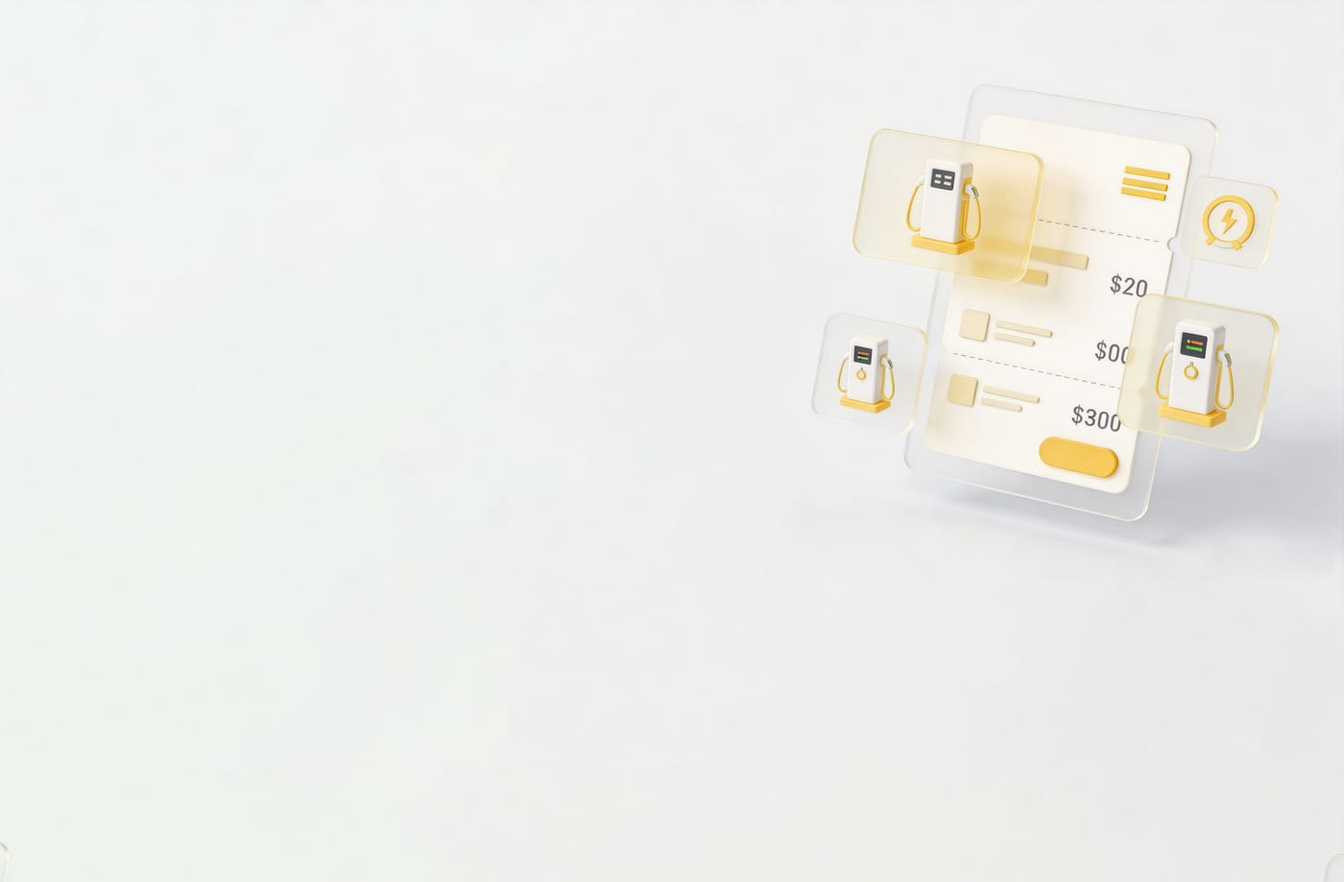
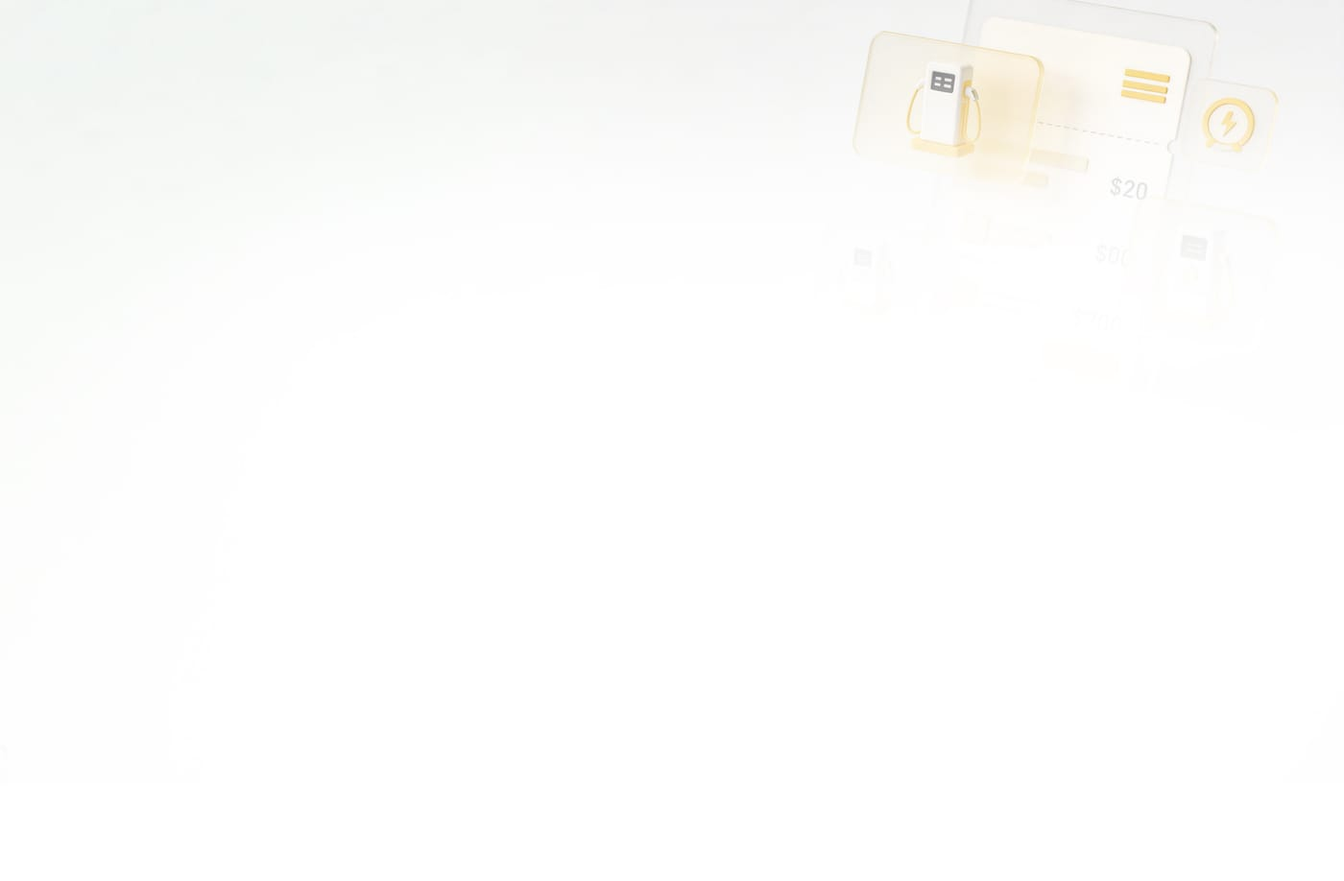
chore(model-card): swap B2C card bg to lighter composition
New source paste with mockup tucked into upper-right corner only
and much more empty cream space. Same sharp pipeline; file size
24KB -> 9.6KB at same 1400x918 dimensions.

Changed region(s): [[0.5836, 0.061, 1.0, 0.671], [0.9214, 0.7015, 1.0, 0.854], [0.9829, 0.9455, 1.0, 1.0]]

diff --git a/CLAUDE.md b/CLAUDE.md
@@ -49,4 +49,4 @@ Backend: `node deploy/deploy-backend.js` cross-compiles Go + SFTP + systemd rest
 
 ## Last session
 
-- 2026-05-12 (homepage hero-footer icon set replaced with external multi-color SVGs + new icon asset directory + business-models card idle shadow removed + hover gold border/ring removed on model-card + B2C card gets product-shot bg image): (1) Created a dedicated icon asset directory at `website/frontend/public/assets/icons/` with a `hero-stats/` subfolder. Project previously had no icons directory — `public/assets/` only held `logo.png`, all UI icons were inlined as `<svg>` in JSX, and the only standalone SVG in `public/` was the large `images/b2c_bg.svg` background. New convention: `public/assets/icons/<scene>/<name>.svg` (e.g. `assets/icons/hero-stats/downloads.svg`); add more `assets/icons/<scene>/` subdirs (nav, features, etc.) when new icons land. (2) Dropped three new SVGs into `public/assets/icons/hero-stats/`: `downloads.svg` (gold tray + black down arrow — 下载量), `chargers.svg` (gold bars + black lightning — 充电桩数量), `countries.svg` (gold globe + black meridians — 覆盖国家). All three are multi-color (gold `rgba(254,191,29,1)` ≈ `--primary` + black strokes), `viewBox="0 0 24 24"`, source files were 24×24 with intrinsic colors hard-coded — NOT using `currentColor`, so theme/CSS color changes do not affect them. (3) `src/app/[locale]/page.tsx` lines 98-119: replaced the three inline `<svg>` blocks (download tray, lightning bolt, globe — all simple single-path `currentColor` icons) with `<Image src="/assets/icons/hero-stats/{downloads,chargers,countries}.svg" alt="" width={16} height={16} />`. `Image` was already imported at line 2 and `next.config.ts` has `images.unoptimized: true` so static export works. Removed `style={{ color: 'var(--primary)' }}` from each wrapping `.hero-footer-icon` span — useless now that the SVGs no longer use `currentColor`. The span wrapper itself is kept since `.hero-footer-stat` flex alignment + the animation/transition hooks live on it. (4) `src/app/styles/sections.css` cleanup of rules tuned for the old single-color SVGs: (a) removed the entire light-mode override block at ~lines 1658-1664 (`html:not([data-theme="dark"]) .hero .hero-footer-icon { color: var(--text-primary) !important; filter: none; }` + the matching hover rule); the divider override below it is preserved. (b) stripped `color: var(--primary) !important` and `filter: drop-shadow(0 0 4px rgba(254, 191, 29, 0.4))` from the base `.hero-footer-icon` rule, and removed the entire `.hero-footer-stat:hover .hero-footer-icon { filter: drop-shadow(0 0 8px rgba(254, 191, 29, 0.6)) }` hover rule. The base rule is now just `display: flex; align-items: center;`. (5) Scope: ONLY the homepage was updated. `src/app/[locale]/b2c/page.tsx:129-145` has the same three inline SVGs with the same structure but was intentionally left as-is per user — "只换首页". If/when b2c is replaced, the same three files in `assets/icons/hero-stats/` can be reused; the `.hero-footer-icon` CSS strip already applies globally so b2c's gold glow is also gone (b2c may now look identical to home minus the icons — no user complaint yet but worth noting). NOTE TO FUTURE CLAUDE: the hover lift `transform: translateY(-2px)` on `.hero-footer-stat:hover` is preserved as the only hover feedback now; if user wants a subtle hover effect back, prefer adding it on the stat (scale/translate) rather than re-introducing a `drop-shadow` on the icon — the multi-color SVGs already carry the gold accent and a gold glow would muddy the black strokes. The `HeroVideo.tsx` component file noted in prior sessions is still unused-but-present (untouched). (6) Removed the idle drop-shadow on `.model-card` (homepage "灵活的运营模式，适配各种规模" section / `#models` — two cards: 独立运营商模式 B2C and SaaS 平台版运营模式 B2B2C, rendered by `src/components/sections/home/BusinessModelsSection.tsx`). `sections.css:2213` `box-shadow: 0 2px 10px rgba(0, 0, 0, 0.06)` → `box-shadow: none`. Note there are TWO competing idle box-shadow declarations for `.model-card`: the earlier merged rule at `sections.css:2024` (`.card, .model-card, .glass-card`) sets `var(--shadow-sm), inset 0 1px 0 rgba(255, 255, 255, 0.08)`, and the "Business Models Section" block at line 2206 is more-specific-by-cascade (same specificity but later in the file) so it wins — that's the one whose value the user is seeing. Setting it to `none` cleanly cancels the visible shadow without needing `!important` or restructuring the earlier rule. Hover rule at `sections.css:2217-2221` is intentionally left untouched — hover still lifts (`transform: translateY(-4px)`), tints the border gold (`rgba(254, 191, 29, 0.3)`), and re-introduces a shadow (`0 8px 24px rgba(0, 0, 0, 0.1)`); the user only asked for static/idle shadow removal. Caveat: there are ALSO `.model-card:hover` rules in `polish.css:144-152` (`0 22px 48px rgba(0,0,0,0.1), 0 0 0 1px rgba(254,191,29,0.22), 0 0 36px rgba(254,191,29,0.14)`) and `sections.css:2037-2045` (`var(--shadow-md), inset 0 1px 0 rgba(255,255,255,0.12), 0 0 30px rgba(254,191,29,0.06)`) — which one ultimately wins for hover depends on stylesheet import order; observed hover in dev would tell you. None of those were touched. Apply to both light + dark mode (no theme-scoped override). (7) Removed the gold/yellow border treatment from `.model-card:hover` on the same business-models cards. Two coordinated edits because the gold border was being applied by the LAST-loaded stylesheet (`polish.css`) winning the cascade: (a) `polish.css:144` — pulled `.model-card:hover` out of the multi-selector `.card:hover, .glass-card:hover, .model-card:hover, .feature-card:hover` so polish.css no longer applies its hover treatment to model-card (the gold treatment in that rule is `border-color: rgba(254, 191, 29, 0.3)` PLUS a `0 0 0 1px rgba(254, 191, 29, 0.22)` 1px gold ring as part of the box-shadow stack PLUS a `0 0 36px rgba(254, 191, 29, 0.14)` gold glow halo — all three were going to model-card). `.card:hover, .glass-card:hover, .feature-card:hover` keep the gold ring/glow/border — only model-card is opted out. (b) `sections.css:2218` — `.model-card:hover` `border-color: rgba(254, 191, 29, 0.3)` → `border-color: var(--border-subtle)` (matches idle from line 2208, so border doesn't change color on hover). Preserved on hover: `transform: translateY(-4px)` lift and `box-shadow: 0 8px 24px rgba(0, 0, 0, 0.1)` neutral dark shadow from `sections.css:2219-2220` (now the sole hover rule for model-card since polish.css opted out); also preserved `.model-card:hover .model-icon { transform: scale(1.06) rotate(-2deg) }` from `polish.css:156` — that's the icon scale, not a gold border, user didn't complain. Note: there is still a `.card:hover, .model-card:hover, .glass-card:hover` block at `sections.css:2037-2045` with `border-color: rgba(254, 191, 29, 0.15)` + gold-tinted glow, BUT `sections.css:2217` is later in the same file at same specificity, so 2217 wins for `.model-card:hover` — the 2037 rule is now effectively dormant for model-card without needing to be touched. Stylesheet load order for the curious: `globals.css` imports in this order — `base.css` → `sections.css` → `pages-extracted.css` → `polish.css` (last one wins at same specificity). Apply to both light + dark mode (no theme-scoped override). (8) Replaced the cream-solid background on the LEFT business-models card (B2C — 独立运营商模式 (B2C)) with a product-shot image (charging-pillar + phone UI mockup on cream backdrop). New asset: `website/frontend/public/images/business-models/b2c-bg.jpg` — sourced from a 4650×3051 / 6.95MB PNG paste, resized + recompressed to **1400×919 / 24KB** via `sharp` (`fit: 'inside'`, `withoutEnlargement: true`, JPEG quality 80, mozjpeg, progressive) — 290× size reduction so the card bg doesn't tank LCP. Created the new directory `public/images/business-models/` for future model-card assets (matches existing per-feature subdir pattern like `images/payment/`, `images/mobileapp/`). TSX: `src/components/sections/home/BusinessModelsSection.tsx` — added `model-card-b2c` modifier class to the first `.model-card` (line 23 area). Second card (`SaaS 平台版运营模式 (B2B2C)`) is untouched per "红框卡片" scope. CSS: appended a new rule right after the `.model-card` block in `sections.css` (~line 2216): `#models .model-card.model-card-b2c { background-image: url('/images/business-models/b2c-bg.jpg'); background-size: cover; background-position: center; background-repeat: no-repeat; }`. Specificity choice — `#models` ID + 2 classes = (1,2,0), needed to win against the dark-mode override at `pages-extracted.css:2176` (`[data-theme="dark"] .model-card { background: rgba(39,35,32,0.8) ... }` = (0,2,0)) AND against polish.css's later-loaded rules. The image is applied via `background-image` only (NOT the shorthand `background:`) so it doesn't reset `background-color` — the underlying `.model-card { background: var(--dark-card) }` color stays as fallback, visible during image load or behind any transparent pixels. `cover` + `center` keeps the image filling the card with no distortion (the source's mockup sits roughly at horizontal 70-95%, source aspect 1.52:1 vs card aspect ≈ 1.5:1, so cropping is minimal); centered card content (icon + h3 + p + button) sits primarily over the cream empty space on the left ~60% of the image. Applies in BOTH light and dark mode (no theme-scoped override) — image is decorative and the cream tones read fine over the dark card's `rgba(39,35,32,0.8)` fallback too. NOTE TO FUTURE CLAUDE: if user reports the mockup overlaps centered text awkwardly, try `background-position: right center` (pushes mockup flush to right edge, text sits over more cream) — `left center` would hide the mockup entirely since the source's interesting content is on the right. The `next.config.ts` `images.unoptimized: true` is unchanged — this image is loaded via CSS `url()` not `<Image>` so Next image optimization wouldn't apply regardless. Hover shadow + lift from change (7) is also visible behind the new bg. (2) Header background opacity lowered (~95%+) for the proper frosted-glass look (`components.css` `.header`): default unscrolled `rgba(255,255,255,0.85)` → `0.04` with `backdrop-filter: blur(40px) saturate(200%)`; scrolled `0.95` → `0.10` with `blur(28px) saturate(180%)`; dark counterparts `rgba(12,10,9,0.85)/0.95` → `0.04/0.10`. Bottom border switched from `var(--border-subtle)` to faint white (`rgba(255,255,255,0.10)`-ish) so it reads as a glass edge highlight rather than a hard line over the hero video. Scrolled shadow softened from `0.06` → `0.04`. (3) Added a homepage-hero-scoped override `body:has(.hero-with-video) .header` (covers BOTH unscrolled and scrolled states): unscrolled is dark glass at `rgba(0,0,0,0.08)` + `blur(44px) saturate(180%)`; scrolled deepens to `rgba(0,0,0,0.32)` + `blur(32px) saturate(180%)` with a stronger drop shadow `0 4px 18px rgba(0,0,0,0.18)` so the bar stays defined when it travels over white sections after the hero. Non-home pages keep the white-glass variant. (4) In the same `:has(.hero-with-video) .header` scope (no `:not(.scrolled)` — applies in both states), switched nav text/icons to white: `.logo`, `.btn-login`, `.settings-trigger` to `#ffffff`; `.nav a` and `.nav-dropdown-trigger` idle at `rgba(255,255,255,0.82)`; hover/active variants (`.nav a:hover/.active`, `.nav-dropdown-trigger:hover/.active`, `.btn-login:hover`, `.settings-trigger:hover/[aria-expanded="true"]`) to `#ffffff`. The dropdown triggers (`产品`, `社区`) and settings gear are `<button>`s (not `.nav a`) so they need explicit selectors. Settings-trigger border softened to `rgba(255,255,255,0.18)`. SVG chevrons follow `currentColor` automatically. The user explicitly wanted the bar/text to read as white glass throughout home scrolling, not just over the hero — `.scrolled` fires at scrollY>20 so the bar would otherwise flip to dark-on-white before the hero is even out of view. (5) Hero composition reworked from "browser-chrome dashboard card + phone overlapping LEFT edge" to "laptop frame + phone overlapping LOWER-RIGHT corner" (reference: Figma → Webflow promo image). JSX: replaced `.hero-mock-cpo` (with traffic-light bar + `cpo.gcss.hk` URL chip) with `.hero-mock-laptop` containing `.hero-mock-laptop-screen` (thin black bezel hugging the dashboard image) and `.hero-mock-laptop-base` (a 14px wedge 12% wider than the screen via negative margins, gradient `#34302c → #1c1916 → #100e0c`, with a centered hinge notch via `::before`). Phone repositioned from `top:16% left:-10%` → `top:36% right:-10%` (left:auto), width tightened from 36% → 30%. `.hero-mock` width clamp bumped slightly (260-500 → 280-540) to keep the laptop legible at common viewports. Old `.hero-mock-cpo*` selectors deleted. (6) Hero background swapped from the 145MB H.264 video (`/video/Hero-back.mp4`) to a static 2.0MB JPG (`/public/images/hero-bg-charger.jpg`, 3840×2160, light/cream scene with an orange glass charging-pillar render on the right and yellow sky glow at top). page.tsx: dropped the `<HeroVideo>` import and replaced its usage with `<Image fill priority sizes="100vw" className="hero-bg-video" style={{objectFit:'cover',objectPosition:'center'}} />` — `fill` + `object-fit: cover` keeps the image filling the hero without distortion. CSS: `.hero-bg-video` fallback bg switched from `#000` → `#f3eee5` (matches the image background, prevents black flash on slow loads); `.hero-with-video` background-color switched the same way; removed the `@media (prefers-reduced-motion: reduce) { .hero-bg-video { display: none } }` rule (no longer needed for a still). The existing `.hero-bg-video-scrim` (dark-left → transparent-right horizontal gradient + bottom darken) is intentionally kept so the white hero text + white nav still read against the now-lighter image. NOTE TO FUTURE CLAUDE: the white nav text rules from change (4) still apply over this lighter image — the dark-left scrim + dark glass bar keep them readable on the left half, but the right half (where the laptop+phone mock sits) is now bright; if the user reports the nav text is unreadable on the right side, revisit the scrim's right-side opacity or the bar background. The `HeroVideo.tsx` component file is now unused but left in place in case the user wants to swap back. Old `Hero-back.mp4` is still in `/public/video/` (not deleted). (7) Removed the laptop+phone mock (`.hero-mock` div + all children) and the dark scrim overlay (`.hero-bg-video-scrim` div) from the hero JSX so the charger render shows directly without any darkening layer. Grid (`minmax(0,1fr) minmax(0,auto)`) was kept — the empty right column collapses to 0 and the text stays left-aligned, ready for the user to drop something back into the right slot later. CSS for `.hero-mock*` and `.hero-bg-video-scrim` is left in place (unused but harmless) since the user has been iterating on hero composition. WARNING: with the scrim gone, the white hero copy + white nav text from changes (4)–(6) sit directly on the very light cream/white image — readability is poor on the right two-thirds of the bar/text area. If the user reports illegibility, options are to (a) re-introduce a softer scrim (lower-opacity dark gradient on the left only), (b) flip hero text + `body:has(.hero-with-video) .header` overrides back to dark-on-light tokens, or (c) shift the image's `object-position` left so the dark/orange charger sits more behind the text. None done preemptively — user explicitly asked for "直接显示背景图" (show bg directly, no overlay). (8) Header on the home page now flips by scroll state instead of staying dark glass throughout: unscrolled is a SOLID WHITE bar (`background: #ffffff`, no backdrop-filter, `border-bottom: rgba(0,0,0,0.08)`) with default dark nav tokens (`var(--text-secondary)`/`--text-primary`) — readable against the bright charger image; scrolled stays as the dark glass + white text variant from change (4)/(7) for visual continuity once the user starts scrolling. The `body:has(.hero-with-video) .header` overrides were re-scoped: white-glass + white-text rules now use `.header.scrolled` selectors only; the `:not(.scrolled)` block flips to solid white. Per user: "顶部导航栏背景不滚动时，是纯白色的，红框的字体和图标是黑色的". (9) Active nav link styling promoted from `var(--text-primary)` + `font-weight: 600` to `var(--primary)` (gold) + `font-weight: 700` — applies globally to `.nav a.active` and `.nav-dropdown-trigger.active`. The earlier `.scrolled` white-text override on home was forcing `.active` back to white; split the rule so `:hover` stays white on the dark-glass scrolled bar but `.active` keeps the global gold via a follow-up rule. Per user: "红框字体，变成黄色加粗". (10) Removed all black `text-shadow`s from the hero text block (badge, title, description) — they were tuned for the previous dark video bg and read as muddy halos against the new light charger image. Specifically: dropped `0 1px 8px rgba(0,0,0,0.4)` from `.hero-with-video .hero-badge`, `0 1px 2px rgba(0,0,0,0.55), 0 4px 24px rgba(0,0,0,0.5)` from `.hero-with-video .hero-title/.hero-title > span`, and `0 1px 12px rgba(0,0,0,0.55)` from `.hero-with-video .hero-desc`. Kept the gold-tinted `0 2px 18px rgba(254,191,29,0.35)` glow on `.hero-title .typing-text/.text-gradient` (user explicitly said "黑色投影" / black shadows). Footer stat-bar shadows (`.hero-footer-label`, `.hero-footer-value`) left untouched — outside the highlighted area. (11) Hero title + description text color flipped from white → dark for the new light bg: `.hero-with-video .hero-title`/`.hero-title > span` `#ffffff` → `var(--text-primary)`, and `.hero-with-video .hero-desc` `rgba(255,255,255,0.94)` → `var(--text-secondary)`. The gold typing-text accent (`Charge Hub`/`管理系统` etc.) stays gold via its own selector. Badge stays gold-on-glass pill. (12) Secondary CTA in the hero ("立即安装") flipped from glassy white-tint (`rgba(255,255,255,0.08)` bg, white text, blur) to a solid white pill with dark text/icon (`#ffffff` bg, `var(--text-primary)` text, `rgba(0,0,0,0.10)` border, no backdrop-filter). Pairs against the light charger bg. SVG download icon follows `currentColor`. Hover keeps the same white bg + dark text + dark icon + same border, and only adds a drop shadow (`0 10px 24px rgba(0,0,0,0.14), 0 4px 10px rgba(0,0,0,0.08)`) — per user: "鼠标悬浮效果同样保留白色背景和黑色字体和黑色图，只增加了投影效果". (13) Halved the hover drop-shadow opacity on `.hero-with-video .btn-secondary:hover`: `0.14 → 0.07` and `0.08 → 0.04` — shadow was reading too dark against the cream bg. Per user: "投影太黑了，透明度降低50%". (14) Home-page scrolled header background flipped from black-transparent to white-transparent: `body:has(.hero-with-video) .header.scrolled` `background: rgba(0,0,0,0.32) → rgba(255,255,255,0.32)`. Blur/saturate (`blur(32px) saturate(180%)`), box-shadow, and border-bottom-color untouched per user: "磨砂玻璃效果不要更改". (15) Followed-up: flipped scrolled-state nav text/icons from white back to dark tokens on the home page to match the new white-transparent glass bar. `.logo`, `.btn-login`, `.settings-trigger` idle: `#ffffff` → `var(--text-primary)`. `.nav a`/`.nav-dropdown-trigger` idle: `rgba(255,255,255,0.82)` → `var(--text-secondary)`. All hover variants: `#ffffff` → `var(--text-primary)`. Active link stays `var(--primary)` (gold). Dropped the `settings-trigger` border override (`rgba(255,255,255,0.18)`) so it falls back to the default token. Per user: "字体和图标改成黑色". (16) Halved scrolled-header drop-shadow opacity on the home page: `body:has(.hero-with-video) .header.scrolled` box-shadow `rgba(0,0,0,0.18) → 0.09`. Blur/offset unchanged. Per user: "这里的投影效果降低50%". (17) Hero footer stat bar (`.hero-footer-bar` — the strip at the bottom of the hero with 下载量/充电桩数量/覆盖国家) light-mode bg flipped from gold-tinted (`rgba(140,95,0,0.5)`) to white-transparent (`rgba(255,255,255,0.5)`); border-top swapped to `rgba(255,255,255,0.45)`. Frosted glass (`backdrop-filter: blur(20px) saturate(1.4)`) on the base `.hero-footer-bar` selector is untouched. Added light-mode overrides to flip text/icons to dark: `.hero-footer-label` white→`var(--text-secondary)`, `.hero-footer-value` white→`var(--text-primary)`, dropped both text-shadows; `.hero-footer-icon` gold→`var(--text-primary)`, dropped the gold `drop-shadow` filter (idle + hover); divider switched from `rgba(255,255,255,0.2)` to `rgba(0,0,0,0.12)` so it's still visible against the white-transparent bar. Dark mode left as-is (`rgba(0,0,0,0.2)` bg + white text). Per user: "这里的黄色透明度也改成白色透明度，同样保留磨砂玻璃的效果，文字和图标改成黑色". (18) Home-page UNSCROLLED header: removed the faint hairline/shadow under the white bar. `body:has(.hero-with-video) .header:not(.scrolled)` border-bottom-color `rgba(0,0,0,0.08)` → `transparent`, added explicit `box-shadow: none`, and hid the global `.header::after` 1px gradient highlight via `display: none` in the unscrolled scope. Scrolled state still has its drop-shadow (change 16) and is unchanged. Per user: "首页不滚动时，投影去掉，只有滚动浏览首页的时候，才有". (19) Hero footer stat VALUES (9,999 / 1,069+ / 100+) in light mode were still rendering white because the universal `.hero .hero-footer-value` white rule appeared LATER in the cascade than my change-17 override and won despite both having `!important`. Fixed at the source: rewrote `html:not([data-theme="dark"]) .hero .hero-footer-value, [data-theme="dark"] .hero .hero-footer-value` (was a combined selector forcing white in both modes) into two separate rules — dark stays `#ffffff` + shadow, light gets `color: var(--text-primary) !important; font-weight: 900 !important; text-shadow: none`. Also split the universal `.hero .hero-footer-label` rule (which was forcing white + black text-shadow in both modes) so only `[data-theme="dark"]` keeps the white treatment; light-mode labels now fall back to the base `.hero-footer-label` token (`var(--text-tertiary)`). Cleaned up: removed the now-superseded `html:not([data-theme="dark"]) .hero .hero-footer-label` and `html:not([data-theme="dark"]) .hero .hero-footer-value` overrides from change 17 (icon/divider overrides retained). Per user: "这里的红框字体，投影效果去掉，字体变成黑色加粗".
+- 2026-05-12 (homepage hero-footer icon set replaced with external multi-color SVGs + new icon asset directory + business-models card idle shadow removed + hover gold border/ring removed on model-card + B2C card gets product-shot bg image): (1) Created a dedicated icon asset directory at `website/frontend/public/assets/icons/` with a `hero-stats/` subfolder. Project previously had no icons directory — `public/assets/` only held `logo.png`, all UI icons were inlined as `<svg>` in JSX, and the only standalone SVG in `public/` was the large `images/b2c_bg.svg` background. New convention: `public/assets/icons/<scene>/<name>.svg` (e.g. `assets/icons/hero-stats/downloads.svg`); add more `assets/icons/<scene>/` subdirs (nav, features, etc.) when new icons land. (2) Dropped three new SVGs into `public/assets/icons/hero-stats/`: `downloads.svg` (gold tray + black down arrow — 下载量), `chargers.svg` (gold bars + black lightning — 充电桩数量), `countries.svg` (gold globe + black meridians — 覆盖国家). All three are multi-color (gold `rgba(254,191,29,1)` ≈ `--primary` + black strokes), `viewBox="0 0 24 24"`, source files were 24×24 with intrinsic colors hard-coded — NOT using `currentColor`, so theme/CSS color changes do not affect them. (3) `src/app/[locale]/page.tsx` lines 98-119: replaced the three inline `<svg>` blocks (download tray, lightning bolt, globe — all simple single-path `currentColor` icons) with `<Image src="/assets/icons/hero-stats/{downloads,chargers,countries}.svg" alt="" width={16} height={16} />`. `Image` was already imported at line 2 and `next.config.ts` has `images.unoptimized: true` so static export works. Removed `style={{ color: 'var(--primary)' }}` from each wrapping `.hero-footer-icon` span — useless now that the SVGs no longer use `currentColor`. The span wrapper itself is kept since `.hero-footer-stat` flex alignment + the animation/transition hooks live on it. (4) `src/app/styles/sections.css` cleanup of rules tuned for the old single-color SVGs: (a) removed the entire light-mode override block at ~lines 1658-1664 (`html:not([data-theme="dark"]) .hero .hero-footer-icon { color: var(--text-primary) !important; filter: none; }` + the matching hover rule); the divider override below it is preserved. (b) stripped `color: var(--primary) !important` and `filter: drop-shadow(0 0 4px rgba(254, 191, 29, 0.4))` from the base `.hero-footer-icon` rule, and removed the entire `.hero-footer-stat:hover .hero-footer-icon { filter: drop-shadow(0 0 8px rgba(254, 191, 29, 0.6)) }` hover rule. The base rule is now just `display: flex; align-items: center;`. (5) Scope: ONLY the homepage was updated. `src/app/[locale]/b2c/page.tsx:129-145` has the same three inline SVGs with the same structure but was intentionally left as-is per user — "只换首页". If/when b2c is replaced, the same three files in `assets/icons/hero-stats/` can be reused; the `.hero-footer-icon` CSS strip already applies globally so b2c's gold glow is also gone (b2c may now look identical to home minus the icons — no user complaint yet but worth noting). NOTE TO FUTURE CLAUDE: the hover lift `transform: translateY(-2px)` on `.hero-footer-stat:hover` is preserved as the only hover feedback now; if user wants a subtle hover effect back, prefer adding it on the stat (scale/translate) rather than re-introducing a `drop-shadow` on the icon — the multi-color SVGs already carry the gold accent and a gold glow would muddy the black strokes. The `HeroVideo.tsx` component file noted in prior sessions is still unused-but-present (untouched). (6) Removed the idle drop-shadow on `.model-card` (homepage "灵活的运营模式，适配各种规模" section / `#models` — two cards: 独立运营商模式 B2C and SaaS 平台版运营模式 B2B2C, rendered by `src/components/sections/home/BusinessModelsSection.tsx`). `sections.css:2213` `box-shadow: 0 2px 10px rgba(0, 0, 0, 0.06)` → `box-shadow: none`. Note there are TWO competing idle box-shadow declarations for `.model-card`: the earlier merged rule at `sections.css:2024` (`.card, .model-card, .glass-card`) sets `var(--shadow-sm), inset 0 1px 0 rgba(255, 255, 255, 0.08)`, and the "Business Models Section" block at line 2206 is more-specific-by-cascade (same specificity but later in the file) so it wins — that's the one whose value the user is seeing. Setting it to `none` cleanly cancels the visible shadow without needing `!important` or restructuring the earlier rule. Hover rule at `sections.css:2217-2221` is intentionally left untouched — hover still lifts (`transform: translateY(-4px)`), tints the border gold (`rgba(254, 191, 29, 0.3)`), and re-introduces a shadow (`0 8px 24px rgba(0, 0, 0, 0.1)`); the user only asked for static/idle shadow removal. Caveat: there are ALSO `.model-card:hover` rules in `polish.css:144-152` (`0 22px 48px rgba(0,0,0,0.1), 0 0 0 1px rgba(254,191,29,0.22), 0 0 36px rgba(254,191,29,0.14)`) and `sections.css:2037-2045` (`var(--shadow-md), inset 0 1px 0 rgba(255,255,255,0.12), 0 0 30px rgba(254,191,29,0.06)`) — which one ultimately wins for hover depends on stylesheet import order; observed hover in dev would tell you. None of those were touched. Apply to both light + dark mode (no theme-scoped override). (7) Removed the gold/yellow border treatment from `.model-card:hover` on the same business-models cards. Two coordinated edits because the gold border was being applied by the LAST-loaded stylesheet (`polish.css`) winning the cascade: (a) `polish.css:144` — pulled `.model-card:hover` out of the multi-selector `.card:hover, .glass-card:hover, .model-card:hover, .feature-card:hover` so polish.css no longer applies its hover treatment to model-card (the gold treatment in that rule is `border-color: rgba(254, 191, 29, 0.3)` PLUS a `0 0 0 1px rgba(254, 191, 29, 0.22)` 1px gold ring as part of the box-shadow stack PLUS a `0 0 36px rgba(254, 191, 29, 0.14)` gold glow halo — all three were going to model-card). `.card:hover, .glass-card:hover, .feature-card:hover` keep the gold ring/glow/border — only model-card is opted out. (b) `sections.css:2218` — `.model-card:hover` `border-color: rgba(254, 191, 29, 0.3)` → `border-color: var(--border-subtle)` (matches idle from line 2208, so border doesn't change color on hover). Preserved on hover: `transform: translateY(-4px)` lift and `box-shadow: 0 8px 24px rgba(0, 0, 0, 0.1)` neutral dark shadow from `sections.css:2219-2220` (now the sole hover rule for model-card since polish.css opted out); also preserved `.model-card:hover .model-icon { transform: scale(1.06) rotate(-2deg) }` from `polish.css:156` — that's the icon scale, not a gold border, user didn't complain. Note: there is still a `.card:hover, .model-card:hover, .glass-card:hover` block at `sections.css:2037-2045` with `border-color: rgba(254, 191, 29, 0.15)` + gold-tinted glow, BUT `sections.css:2217` is later in the same file at same specificity, so 2217 wins for `.model-card:hover` — the 2037 rule is now effectively dormant for model-card without needing to be touched. Stylesheet load order for the curious: `globals.css` imports in this order — `base.css` → `sections.css` → `pages-extracted.css` → `polish.css` (last one wins at same specificity). Apply to both light + dark mode (no theme-scoped override). (8) Replaced the cream-solid background on the LEFT business-models card (B2C — 独立运营商模式 (B2C)) with a product-shot image (charging-pillar + phone UI mockup on cream backdrop). New asset: `website/frontend/public/images/business-models/b2c-bg.jpg` — initially sourced from a 4650×3051 / 6.95MB PNG paste (first iteration: mockup centered-right, charging pillar + phone UI prominent across right ~40% of image, compressed to 24KB 1400×919). Subsequently REPLACED in the same session with a second 4650×3051 JPEG paste where the mockup is much smaller and tucked into the upper-right corner only (~25% × 30% of pixels), with the remaining ~70%+ of the image as empty cream/white — compressed to **1400×918 / 9.6KB** via the same `sharp` pipeline (`fit: 'inside'`, `withoutEnlargement: true`, JPEG quality 80, mozjpeg, progressive). The whiter composition compresses much better, hence 9.6KB vs 24KB at the same dimensions/quality. Created the new directory `public/images/business-models/` for future model-card assets (matches existing per-feature subdir pattern like `images/payment/`, `images/mobileapp/`). TSX: `src/components/sections/home/BusinessModelsSection.tsx` — added `model-card-b2c` modifier class to the first `.model-card` (line 23 area). Second card (`SaaS 平台版运营模式 (B2B2C)`) is untouched per "红框卡片" scope. CSS: appended a new rule right after the `.model-card` block in `sections.css` (~line 2216): `#models .model-card.model-card-b2c { background-image: url('/images/business-models/b2c-bg.jpg'); background-size: cover; background-position: center; background-repeat: no-repeat; }`. Specificity choice — `#models` ID + 2 classes = (1,2,0), needed to win against the dark-mode override at `pages-extracted.css:2176` (`[data-theme="dark"] .model-card { background: rgba(39,35,32,0.8) ... }` = (0,2,0)) AND against polish.css's later-loaded rules. The image is applied via `background-image` only (NOT the shorthand `background:`) so it doesn't reset `background-color` — the underlying `.model-card { background: var(--dark-card) }` color stays as fallback, visible during image load or behind any transparent pixels. `cover` + `center` keeps the image filling the card with no distortion (the source's mockup sits roughly at horizontal 70-95%, source aspect 1.52:1 vs card aspect ≈ 1.5:1, so cropping is minimal); centered card content (icon + h3 + p + button) sits primarily over the cream empty space on the left ~60% of the image. Applies in BOTH light and dark mode (no theme-scoped override) — image is decorative and the cream tones read fine over the dark card's `rgba(39,35,32,0.8)` fallback too. NOTE TO FUTURE CLAUDE: if user reports the mockup overlaps centered text awkwardly, try `background-position: right center` (pushes mockup flush to right edge, text sits over more cream) — `left center` would hide the mockup entirely since the source's interesting content is on the right. The `next.config.ts` `images.unoptimized: true` is unchanged — this image is loaded via CSS `url()` not `<Image>` so Next image optimization wouldn't apply regardless. Hover shadow + lift from change (7) is also visible behind the new bg. (2) Header background opacity lowered (~95%+) for the proper frosted-glass look (`components.css` `.header`): default unscrolled `rgba(255,255,255,0.85)` → `0.04` with `backdrop-filter: blur(40px) saturate(200%)`; scrolled `0.95` → `0.10` with `blur(28px) saturate(180%)`; dark counterparts `rgba(12,10,9,0.85)/0.95` → `0.04/0.10`. Bottom border switched from `var(--border-subtle)` to faint white (`rgba(255,255,255,0.10)`-ish) so it reads as a glass edge highlight rather than a hard line over the hero video. Scrolled shadow softened from `0.06` → `0.04`. (3) Added a homepage-hero-scoped override `body:has(.hero-with-video) .header` (covers BOTH unscrolled and scrolled states): unscrolled is dark glass at `rgba(0,0,0,0.08)` + `blur(44px) saturate(180%)`; scrolled deepens to `rgba(0,0,0,0.32)` + `blur(32px) saturate(180%)` with a stronger drop shadow `0 4px 18px rgba(0,0,0,0.18)` so the bar stays defined when it travels over white sections after the hero. Non-home pages keep the white-glass variant. (4) In the same `:has(.hero-with-video) .header` scope (no `:not(.scrolled)` — applies in both states), switched nav text/icons to white: `.logo`, `.btn-login`, `.settings-trigger` to `#ffffff`; `.nav a` and `.nav-dropdown-trigger` idle at `rgba(255,255,255,0.82)`; hover/active variants (`.nav a:hover/.active`, `.nav-dropdown-trigger:hover/.active`, `.btn-login:hover`, `.settings-trigger:hover/[aria-expanded="true"]`) to `#ffffff`. The dropdown triggers (`产品`, `社区`) and settings gear are `<button>`s (not `.nav a`) so they need explicit selectors. Settings-trigger border softened to `rgba(255,255,255,0.18)`. SVG chevrons follow `currentColor` automatically. The user explicitly wanted the bar/text to read as white glass throughout home scrolling, not just over the hero — `.scrolled` fires at scrollY>20 so the bar would otherwise flip to dark-on-white before the hero is even out of view. (5) Hero composition reworked from "browser-chrome dashboard card + phone overlapping LEFT edge" to "laptop frame + phone overlapping LOWER-RIGHT corner" (reference: Figma → Webflow promo image). JSX: replaced `.hero-mock-cpo` (with traffic-light bar + `cpo.gcss.hk` URL chip) with `.hero-mock-laptop` containing `.hero-mock-laptop-screen` (thin black bezel hugging the dashboard image) and `.hero-mock-laptop-base` (a 14px wedge 12% wider than the screen via negative margins, gradient `#34302c → #1c1916 → #100e0c`, with a centered hinge notch via `::before`). Phone repositioned from `top:16% left:-10%` → `top:36% right:-10%` (left:auto), width tightened from 36% → 30%. `.hero-mock` width clamp bumped slightly (260-500 → 280-540) to keep the laptop legible at common viewports. Old `.hero-mock-cpo*` selectors deleted. (6) Hero background swapped from the 145MB H.264 video (`/video/Hero-back.mp4`) to a static 2.0MB JPG (`/public/images/hero-bg-charger.jpg`, 3840×2160, light/cream scene with an orange glass charging-pillar render on the right and yellow sky glow at top). page.tsx: dropped the `<HeroVideo>` import and replaced its usage with `<Image fill priority sizes="100vw" className="hero-bg-video" style={{objectFit:'cover',objectPosition:'center'}} />` — `fill` + `object-fit: cover` keeps the image filling the hero without distortion. CSS: `.hero-bg-video` fallback bg switched from `#000` → `#f3eee5` (matches the image background, prevents black flash on slow loads); `.hero-with-video` background-color switched the same way; removed the `@media (prefers-reduced-motion: reduce) { .hero-bg-video { display: none } }` rule (no longer needed for a still). The existing `.hero-bg-video-scrim` (dark-left → transparent-right horizontal gradient + bottom darken) is intentionally kept so the white hero text + white nav still read against the now-lighter image. NOTE TO FUTURE CLAUDE: the white nav text rules from change (4) still apply over this lighter image — the dark-left scrim + dark glass bar keep them readable on the left half, but the right half (where the laptop+phone mock sits) is now bright; if the user reports the nav text is unreadable on the right side, revisit the scrim's right-side opacity or the bar background. The `HeroVideo.tsx` component file is now unused but left in place in case the user wants to swap back. Old `Hero-back.mp4` is still in `/public/video/` (not deleted). (7) Removed the laptop+phone mock (`.hero-mock` div + all children) and the dark scrim overlay (`.hero-bg-video-scrim` div) from the hero JSX so the charger render shows directly without any darkening layer. Grid (`minmax(0,1fr) minmax(0,auto)`) was kept — the empty right column collapses to 0 and the text stays left-aligned, ready for the user to drop something back into the right slot later. CSS for `.hero-mock*` and `.hero-bg-video-scrim` is left in place (unused but harmless) since the user has been iterating on hero composition. WARNING: with the scrim gone, the white hero copy + white nav text from changes (4)–(6) sit directly on the very light cream/white image — readability is poor on the right two-thirds of the bar/text area. If the user reports illegibility, options are to (a) re-introduce a softer scrim (lower-opacity dark gradient on the left only), (b) flip hero text + `body:has(.hero-with-video) .header` overrides back to dark-on-light tokens, or (c) shift the image's `object-position` left so the dark/orange charger sits more behind the text. None done preemptively — user explicitly asked for "直接显示背景图" (show bg directly, no overlay). (8) Header on the home page now flips by scroll state instead of staying dark glass throughout: unscrolled is a SOLID WHITE bar (`background: #ffffff`, no backdrop-filter, `border-bottom: rgba(0,0,0,0.08)`) with default dark nav tokens (`var(--text-secondary)`/`--text-primary`) — readable against the bright charger image; scrolled stays as the dark glass + white text variant from change (4)/(7) for visual continuity once the user starts scrolling. The `body:has(.hero-with-video) .header` overrides were re-scoped: white-glass + white-text rules now use `.header.scrolled` selectors only; the `:not(.scrolled)` block flips to solid white. Per user: "顶部导航栏背景不滚动时，是纯白色的，红框的字体和图标是黑色的". (9) Active nav link styling promoted from `var(--text-primary)` + `font-weight: 600` to `var(--primary)` (gold) + `font-weight: 700` — applies globally to `.nav a.active` and `.nav-dropdown-trigger.active`. The earlier `.scrolled` white-text override on home was forcing `.active` back to white; split the rule so `:hover` stays white on the dark-glass scrolled bar but `.active` keeps the global gold via a follow-up rule. Per user: "红框字体，变成黄色加粗". (10) Removed all black `text-shadow`s from the hero text block (badge, title, description) — they were tuned for the previous dark video bg and read as muddy halos against the new light charger image. Specifically: dropped `0 1px 8px rgba(0,0,0,0.4)` from `.hero-with-video .hero-badge`, `0 1px 2px rgba(0,0,0,0.55), 0 4px 24px rgba(0,0,0,0.5)` from `.hero-with-video .hero-title/.hero-title > span`, and `0 1px 12px rgba(0,0,0,0.55)` from `.hero-with-video .hero-desc`. Kept the gold-tinted `0 2px 18px rgba(254,191,29,0.35)` glow on `.hero-title .typing-text/.text-gradient` (user explicitly said "黑色投影" / black shadows). Footer stat-bar shadows (`.hero-footer-label`, `.hero-footer-value`) left untouched — outside the highlighted area. (11) Hero title + description text color flipped from white → dark for the new light bg: `.hero-with-video .hero-title`/`.hero-title > span` `#ffffff` → `var(--text-primary)`, and `.hero-with-video .hero-desc` `rgba(255,255,255,0.94)` → `var(--text-secondary)`. The gold typing-text accent (`Charge Hub`/`管理系统` etc.) stays gold via its own selector. Badge stays gold-on-glass pill. (12) Secondary CTA in the hero ("立即安装") flipped from glassy white-tint (`rgba(255,255,255,0.08)` bg, white text, blur) to a solid white pill with dark text/icon (`#ffffff` bg, `var(--text-primary)` text, `rgba(0,0,0,0.10)` border, no backdrop-filter). Pairs against the light charger bg. SVG download icon follows `currentColor`. Hover keeps the same white bg + dark text + dark icon + same border, and only adds a drop shadow (`0 10px 24px rgba(0,0,0,0.14), 0 4px 10px rgba(0,0,0,0.08)`) — per user: "鼠标悬浮效果同样保留白色背景和黑色字体和黑色图，只增加了投影效果". (13) Halved the hover drop-shadow opacity on `.hero-with-video .btn-secondary:hover`: `0.14 → 0.07` and `0.08 → 0.04` — shadow was reading too dark against the cream bg. Per user: "投影太黑了，透明度降低50%". (14) Home-page scrolled header background flipped from black-transparent to white-transparent: `body:has(.hero-with-video) .header.scrolled` `background: rgba(0,0,0,0.32) → rgba(255,255,255,0.32)`. Blur/saturate (`blur(32px) saturate(180%)`), box-shadow, and border-bottom-color untouched per user: "磨砂玻璃效果不要更改". (15) Followed-up: flipped scrolled-state nav text/icons from white back to dark tokens on the home page to match the new white-transparent glass bar. `.logo`, `.btn-login`, `.settings-trigger` idle: `#ffffff` → `var(--text-primary)`. `.nav a`/`.nav-dropdown-trigger` idle: `rgba(255,255,255,0.82)` → `var(--text-secondary)`. All hover variants: `#ffffff` → `var(--text-primary)`. Active link stays `var(--primary)` (gold). Dropped the `settings-trigger` border override (`rgba(255,255,255,0.18)`) so it falls back to the default token. Per user: "字体和图标改成黑色". (16) Halved scrolled-header drop-shadow opacity on the home page: `body:has(.hero-with-video) .header.scrolled` box-shadow `rgba(0,0,0,0.18) → 0.09`. Blur/offset unchanged. Per user: "这里的投影效果降低50%". (17) Hero footer stat bar (`.hero-footer-bar` — the strip at the bottom of the hero with 下载量/充电桩数量/覆盖国家) light-mode bg flipped from gold-tinted (`rgba(140,95,0,0.5)`) to white-transparent (`rgba(255,255,255,0.5)`); border-top swapped to `rgba(255,255,255,0.45)`. Frosted glass (`backdrop-filter: blur(20px) saturate(1.4)`) on the base `.hero-footer-bar` selector is untouched. Added light-mode overrides to flip text/icons to dark: `.hero-footer-label` white→`var(--text-secondary)`, `.hero-footer-value` white→`var(--text-primary)`, dropped both text-shadows; `.hero-footer-icon` gold→`var(--text-primary)`, dropped the gold `drop-shadow` filter (idle + hover); divider switched from `rgba(255,255,255,0.2)` to `rgba(0,0,0,0.12)` so it's still visible against the white-transparent bar. Dark mode left as-is (`rgba(0,0,0,0.2)` bg + white text). Per user: "这里的黄色透明度也改成白色透明度，同样保留磨砂玻璃的效果，文字和图标改成黑色". (18) Home-page UNSCROLLED header: removed the faint hairline/shadow under the white bar. `body:has(.hero-with-video) .header:not(.scrolled)` border-bottom-color `rgba(0,0,0,0.08)` → `transparent`, added explicit `box-shadow: none`, and hid the global `.header::after` 1px gradient highlight via `display: none` in the unscrolled scope. Scrolled state still has its drop-shadow (change 16) and is unchanged. Per user: "首页不滚动时，投影去掉，只有滚动浏览首页的时候，才有". (19) Hero footer stat VALUES (9,999 / 1,069+ / 100+) in light mode were still rendering white because the universal `.hero .hero-footer-value` white rule appeared LATER in the cascade than my change-17 override and won despite both having `!important`. Fixed at the source: rewrote `html:not([data-theme="dark"]) .hero .hero-footer-value, [data-theme="dark"] .hero .hero-footer-value` (was a combined selector forcing white in both modes) into two separate rules — dark stays `#ffffff` + shadow, light gets `color: var(--text-primary) !important; font-weight: 900 !important; text-shadow: none`. Also split the universal `.hero .hero-footer-label` rule (which was forcing white + black text-shadow in both modes) so only `[data-theme="dark"]` keeps the white treatment; light-mode labels now fall back to the base `.hero-footer-label` token (`var(--text-tertiary)`). Cleaned up: removed the now-superseded `html:not([data-theme="dark"]) .hero .hero-footer-label` and `html:not([data-theme="dark"]) .hero .hero-footer-value` overrides from change 17 (icon/divider overrides retained). Per user: "这里的红框字体，投影效果去掉，字体变成黑色加粗".
